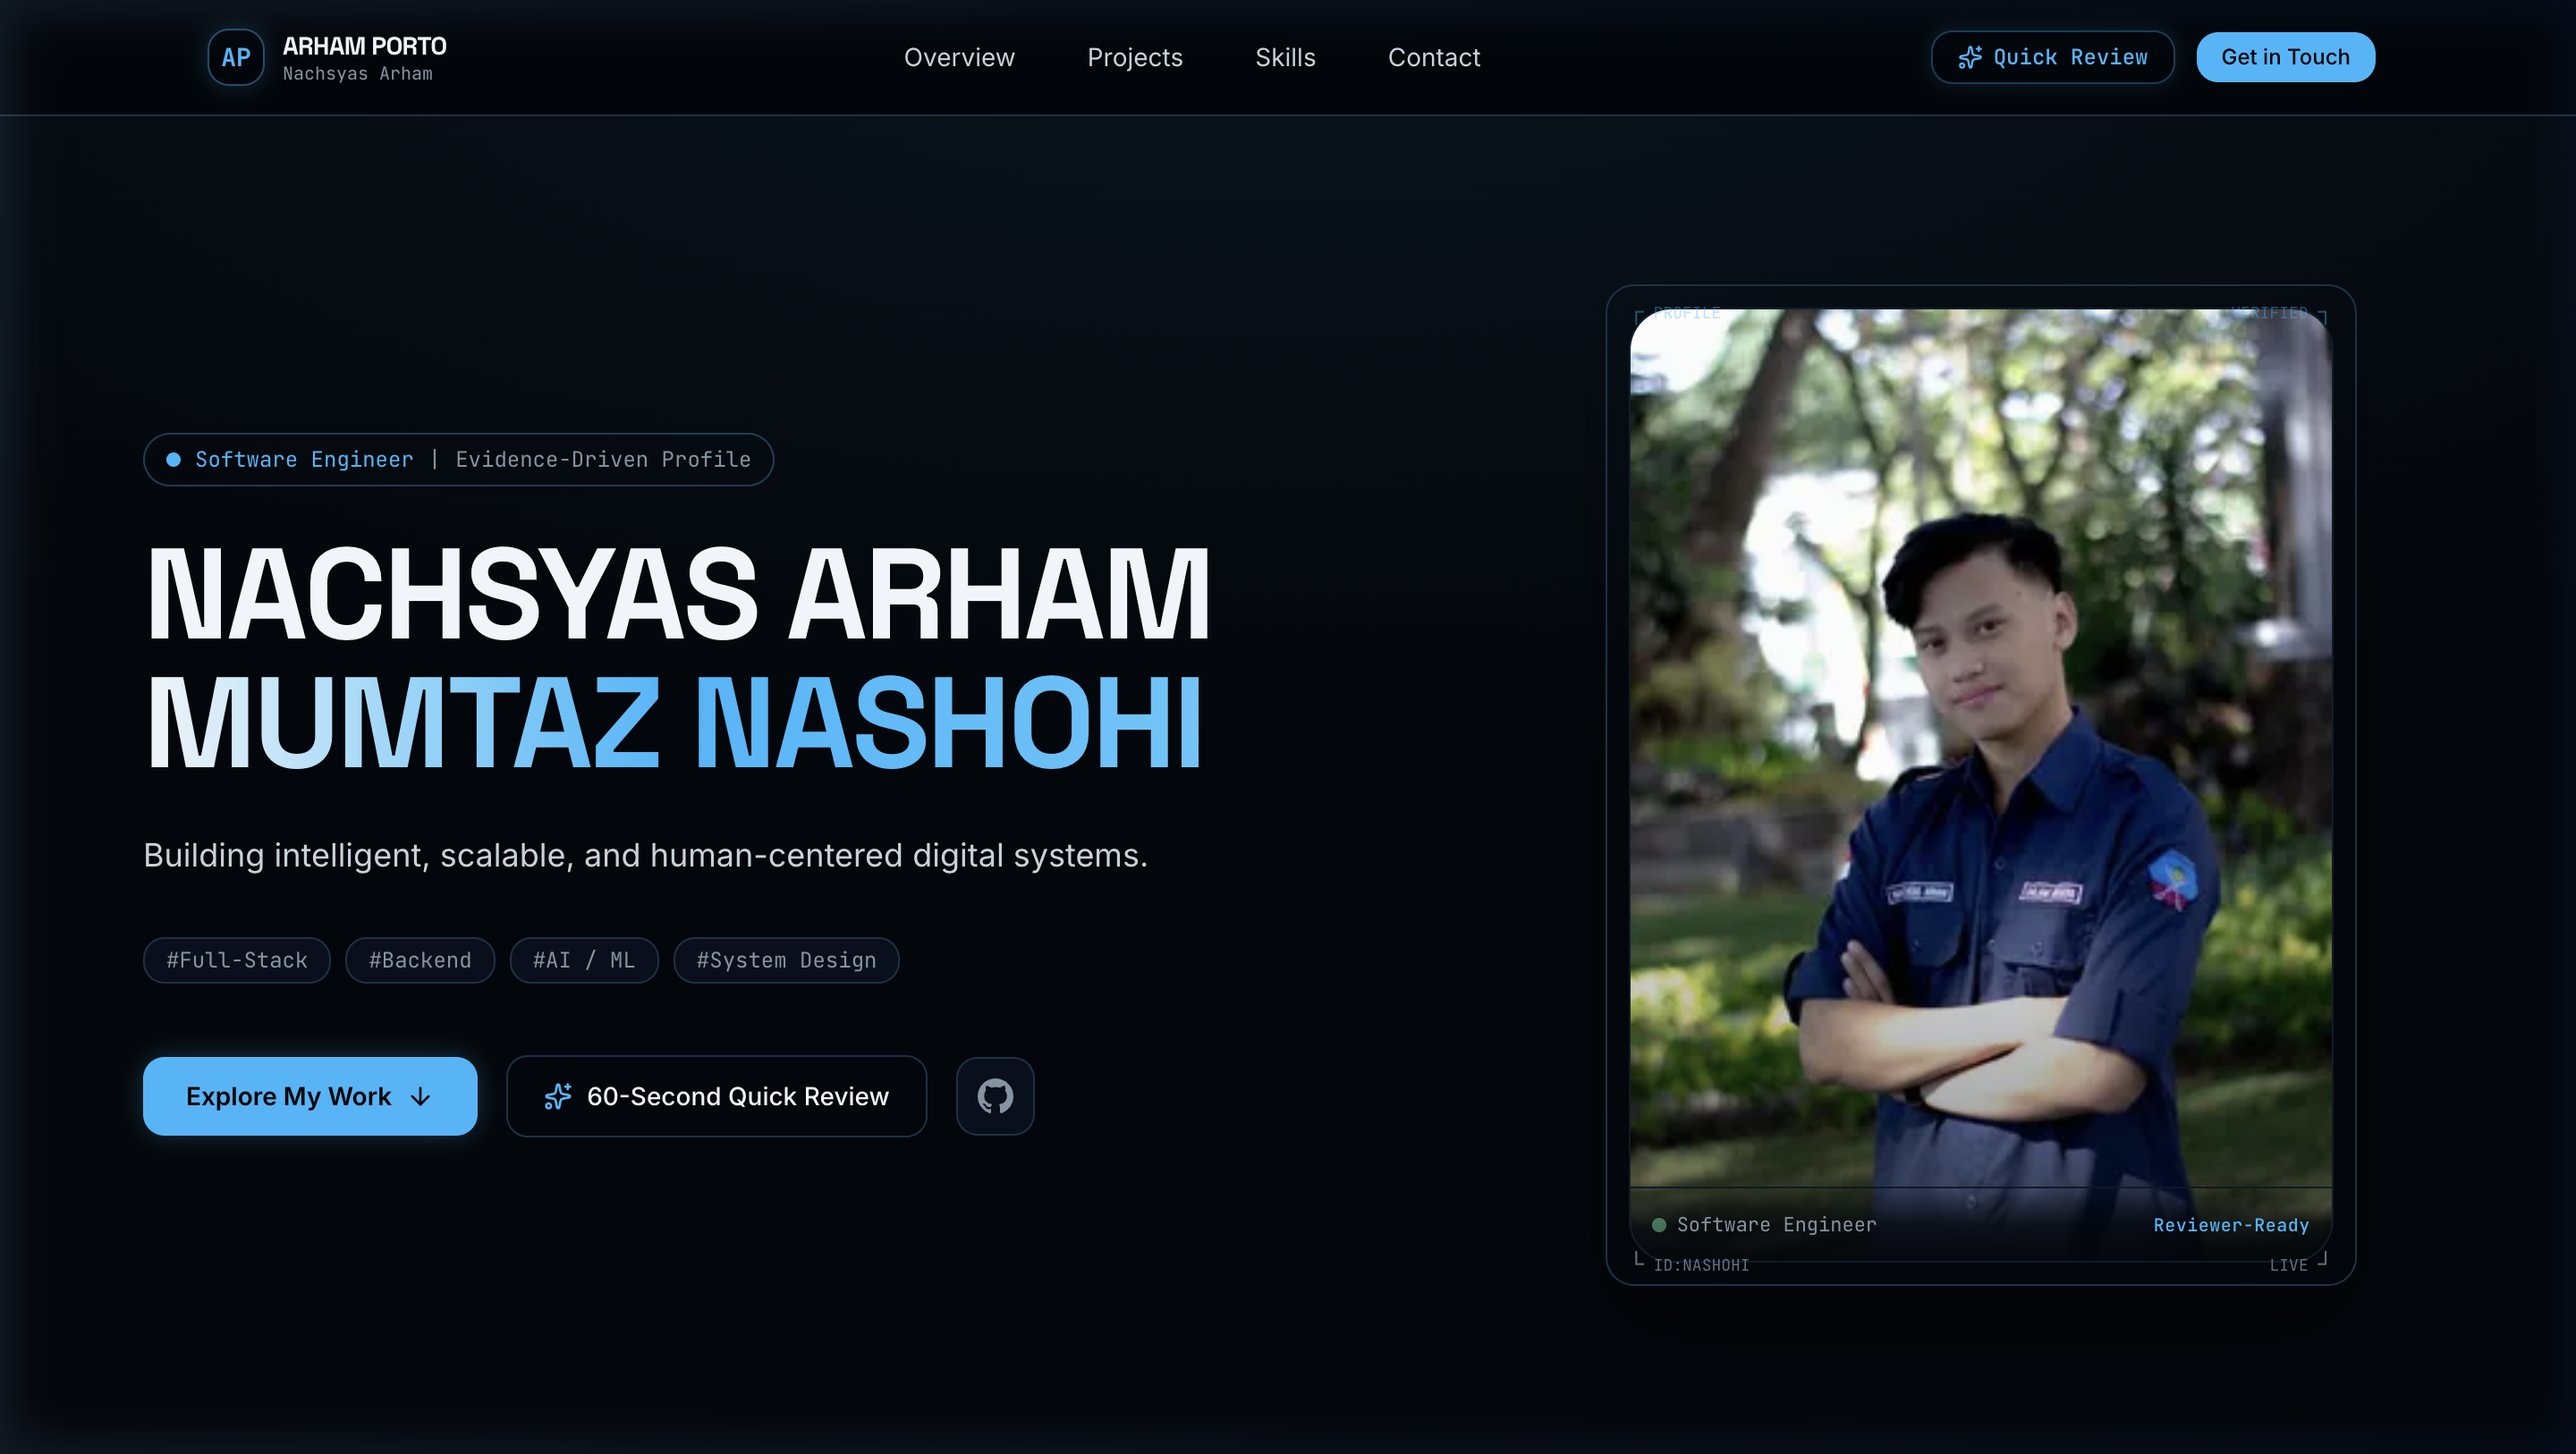
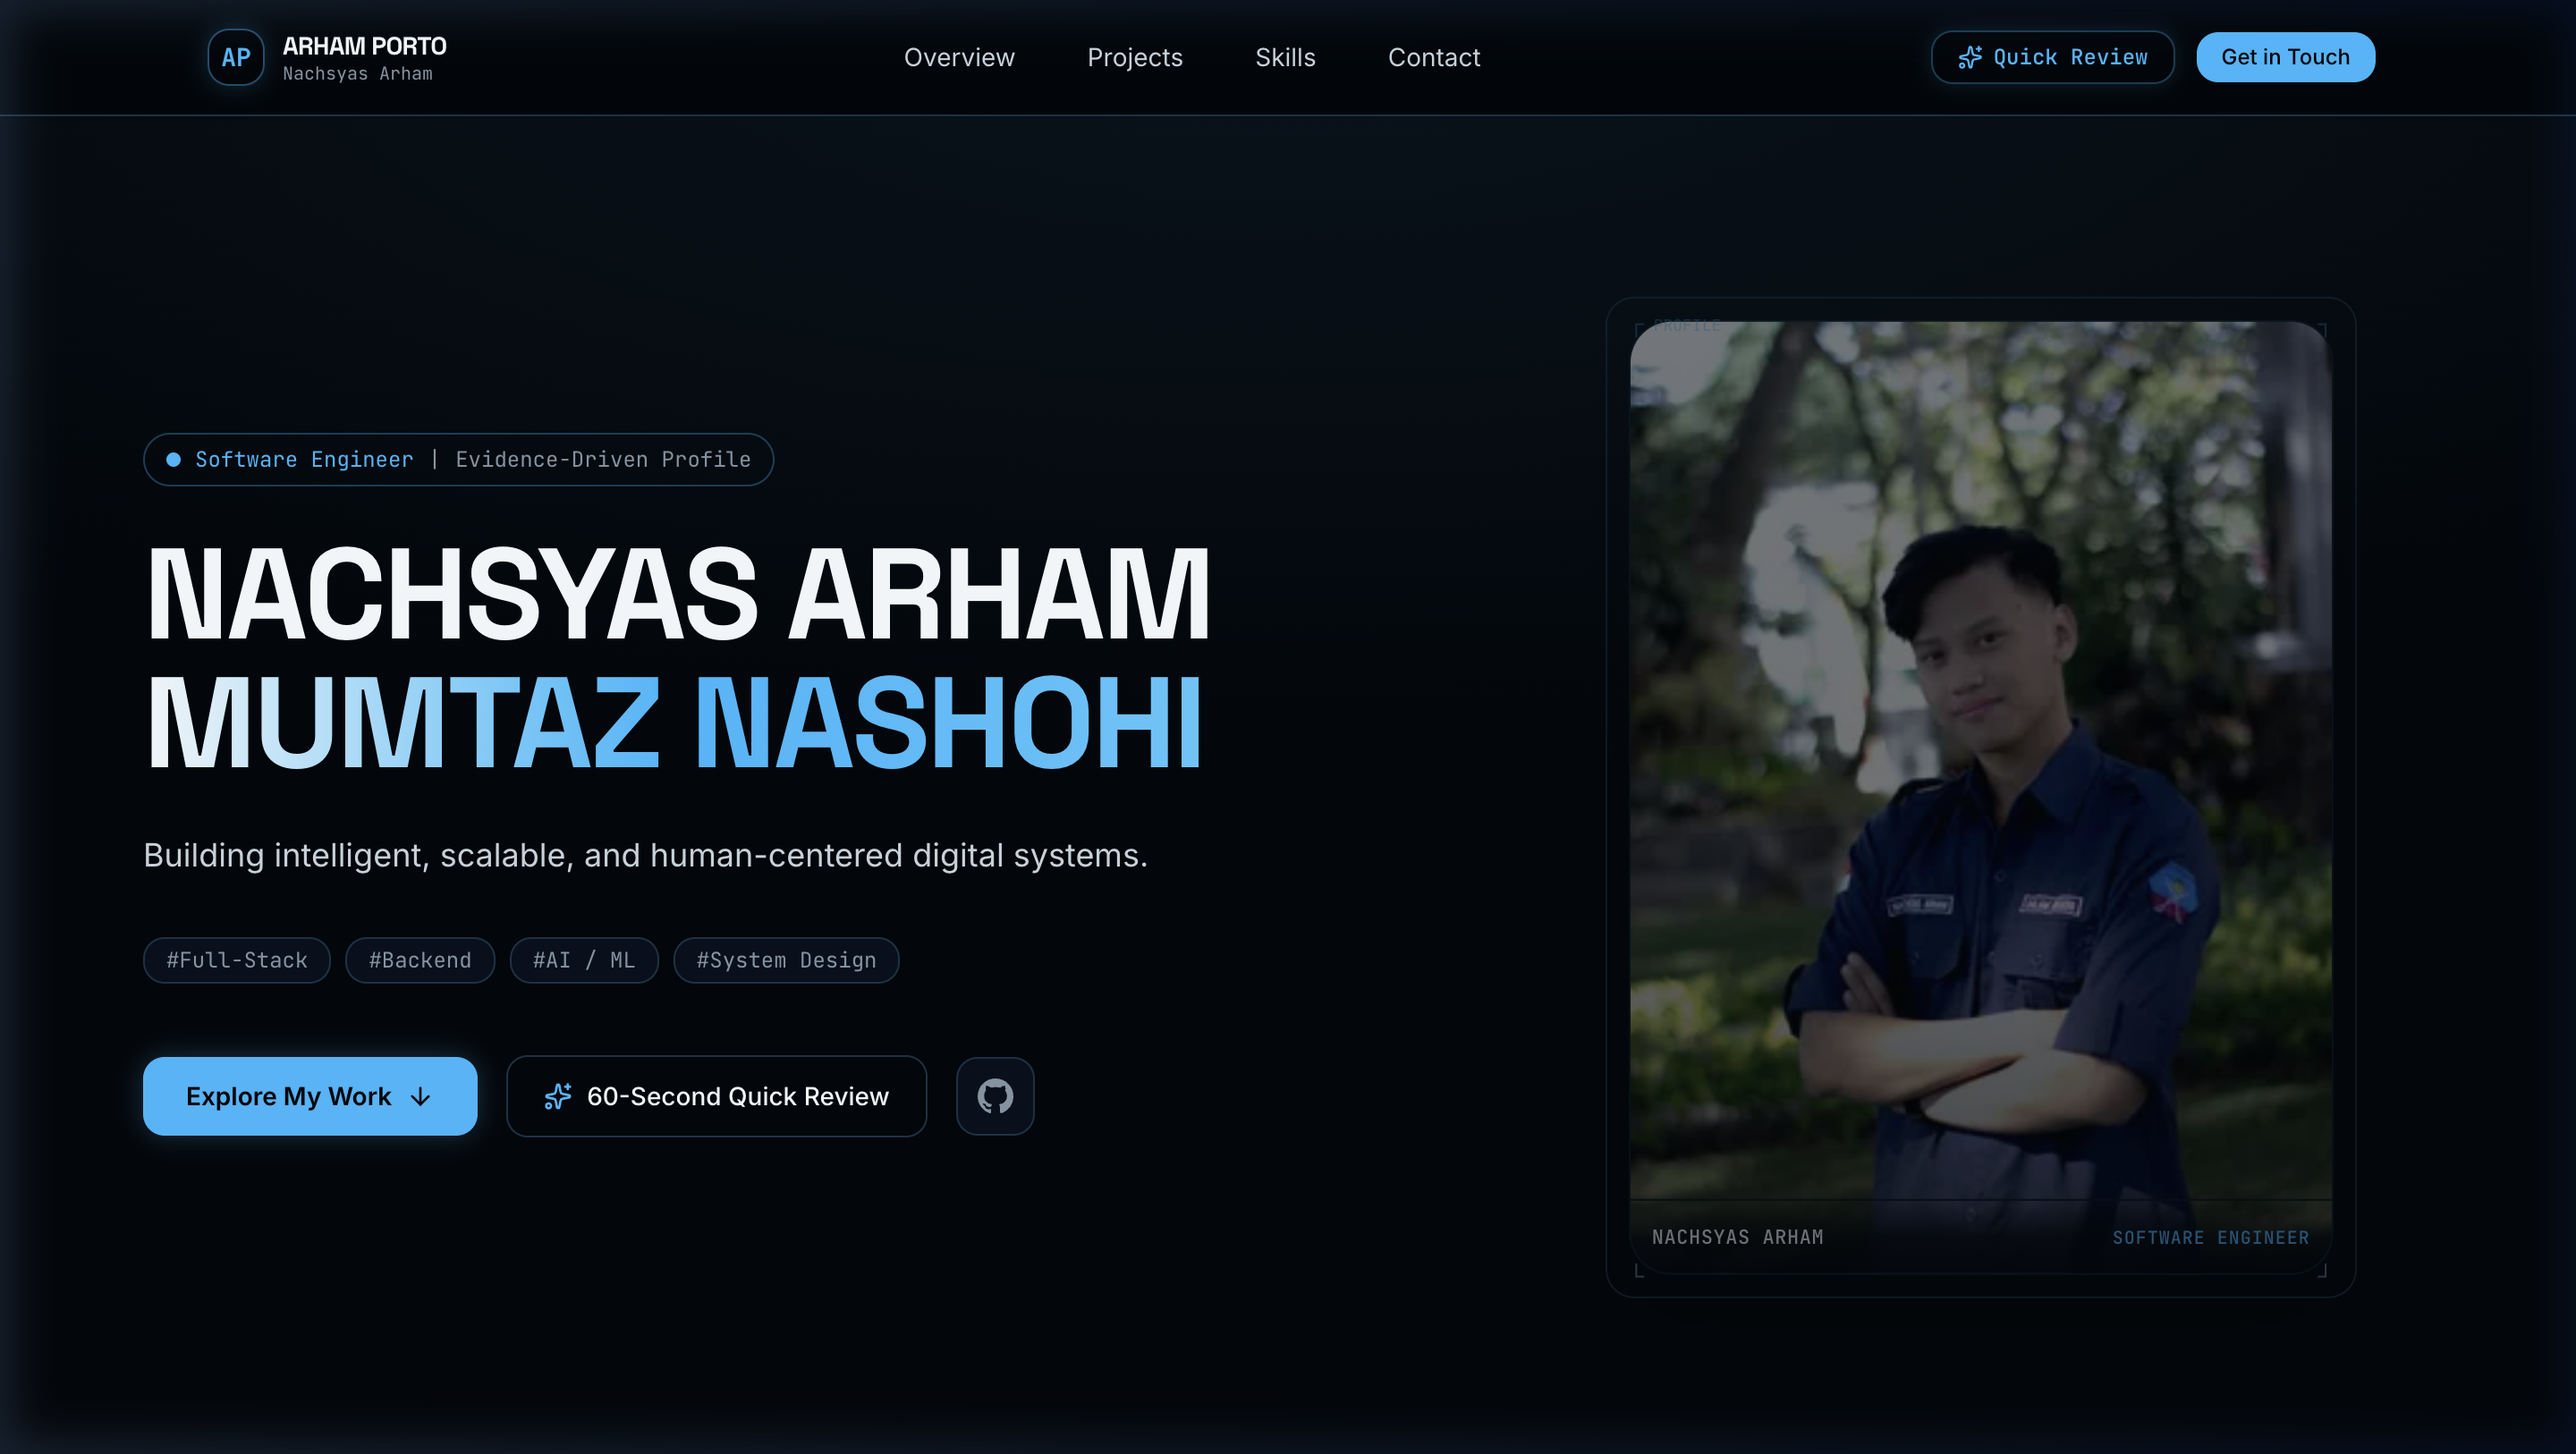
refine(hero): simplify portrait presentation

Changed region(s): [[0.625, 0.1845, 0.9062, 0.8918]]

diff --git a/apps/web/features/hero/HeroPortrait.tsx b/apps/web/features/hero/HeroPortrait.tsx
@@ -30,7 +30,7 @@ export default function HeroPortrait({
           ┌ PROFILE
         </span>
         <span className="absolute top-2 right-3 text-[9px] font-code text-primary/40 pointer-events-none z-20">
-          VERIFIED ┐
+          ┐
         </span>
 
         {/* Inner Photographic Frame */}
@@ -68,24 +68,23 @@ export default function HeroPortrait({
             </div>
           )}
 
-          {/* Minimalist Telemetry Overlay Strip */}
+          {/* Minimalist Profile Identity Overlay Strip */}
           <div className="absolute bottom-0 inset-x-0 p-3 bg-gradient-to-t from-canvas/95 via-canvas/80 to-transparent border-t border-border/40 backdrop-blur-xs flex items-center justify-between z-10">
-            <span className="flex items-center gap-1.5 text-[11px] font-code text-themeText-muted">
-              <span className="h-2 w-2 rounded-full bg-status-success animate-pulse" />
-              Software Engineer
+            <span className="text-[11px] font-code text-themeText-primary font-medium tracking-wide">
+              NACHSYAS ARHAM
             </span>
-            <span className="text-[10px] font-code text-primary font-medium tracking-wide">
-              Reviewer-Ready
+            <span className="text-[10px] font-code text-primary font-medium tracking-wider uppercase">
+              {role}
             </span>
           </div>
         </div>
 
         {/* Bottom Corner Markers */}
         <span className="absolute bottom-1 left-3 text-[9px] font-code text-themeText-mutedSoft pointer-events-none z-20">
-          └ ID:NASHOHI
+          └
         </span>
         <span className="absolute bottom-1 right-3 text-[9px] font-code text-themeText-mutedSoft pointer-events-none z-20">
-          LIVE ┘
+          ┘
         </span>
       </div>
     </motion.div>

diff --git a/apps/web/tests/hero-portrait.test.tsx b/apps/web/tests/hero-portrait.test.tsx
@@ -55,9 +55,10 @@ describe("Hero Portrait Feature", () => {
     const onOpenQuickReview = vi.fn();
     render(<HeroSection profile={mockProfile} onOpenQuickReview={onOpenQuickReview} />);
 
-    // Name typography
-    expect(screen.getByText("NACHSYAS ARHAM")).toBeDefined();
-    expect(screen.getByText("MUMTAZ NASHOHI")).toBeDefined();
+    // Name typography in H1 heading
+    const heading = screen.getByRole("heading", { level: 1 });
+    expect(heading.textContent).toContain("NACHSYAS ARHAM");
+    expect(heading.textContent).toContain("MUMTAZ NASHOHI");
 
     // Role and positioning
     expect(screen.getAllByText("Software Engineer").length).toBeGreaterThan(0);

diff --git a/docs/design/hero-portrait.md b/docs/design/hero-portrait.md
@@ -12,30 +12,46 @@ The Hero visual features an authentic portrait photo of **Nachsyas Arham Mumtaz 
 ---
 
 ## 2. Photo Source & Integrity
-- **Current Canonical Asset**: [`apps/web/public/images/profile/nachsyas-arham.jpg`](file:///Users/user/Documents/Arham%20Porto/apps/web/public/images/profile/nachsyas-arham.jpg)
-- **Source**: Extracted cleanly from the owner's approved curriculum vitae document.
-- **Replacement Tracker**: `TODO_USER_HIGH_RES_PROFILE_PHOTO` is maintained in the profile metadata for when a studio-grade high-resolution portrait is provided.
-- **Natural Color Grading**: The photo retains its natural skin tones and lighting. Cyan tinting over the face is strictly forbidden.
+- **Current Production Default**: [`apps/web/public/images/profile/nachsyas-arham.jpg`](file:///Users/user/Documents/Arham%20Porto/apps/web/public/images/profile/nachsyas-arham.jpg) (278x416 px).
+- **Secondary Asset**: [`apps/web/public/images/profile/nachsyas-arham-formal.jpg`](file:///Users/user/Documents/Arham%20Porto/apps/web/public/images/profile/nachsyas-arham-formal.jpg) (449x685 px).
+- **Metadata Sanitization**: All public profile JPEGs have been strictly stripped of EXIF, GPS coordinates, camera information, and embedded metadata prior to public deployment.
+- **Replacement Tracker**: `TODO_USER_HIGH_RES_PROFILE_PHOTO` remains active in the profile metadata for future studio-grade replacement.
+- **Natural Color Grading**: The photo retains its natural skin tones and lighting. Cyan tinting, face detection boxes, scan lines, and coordinates over the face are strictly forbidden.
 
 ---
 
-## 3. Privacy & CV Data Safeguards
+## 3. Authentic Asset Evaluation & Selection Rationale
+Two authentic portrait assets were extracted from the candidate's CV and evaluated:
+1. **`nachsyas-arham.jpg` (Selected Production Default)**:
+   - Natural outdoor environmental lighting, arms-crossed pose with dark navy uniform and physical name badge ("NACHSYAS ARHAM").
+   - Tone and palette harmonize seamlessly with the dark `#02060B` canvas and `#07111C` surface container.
+   - Poses an approachable, confident software engineer demeanor suitable for recruiters.
+   - Excellent framing on both desktop (3:4 card) and mobile (portrait crop).
+2. **`nachsyas-arham-formal.jpg` (Archived Candidate)**:
+   - Indonesian administrative identity photo ("Pas Foto") with solid bright saturated red background (`#EA0000`), white shirt, and black tie.
+   - Despite higher pixel dimensions (449x685), the severe red background clashes sharply with the site's dark navy/cyan technical design tokens, and the rigid ID framing is less recruiter-friendly.
+   - Selection rule honored: *"Do NOT choose based on resolution alone if composition is worse."*
+
+---
+
+## 4. Privacy & CV Data Safeguards
 - **Zero Document Exposure**: Only the cropped portrait itself is published.
 - **Strict Privacy Isolation**: Private personal details present in CV documents (home address, phone number, date of birth, identity numbers) must **NEVER** be published or exposed in the client bundle.
 
 ---
 
-## 4. Visual Styling & Frame Architecture
+## 5. Visual Styling & Frame Architecture
 - **Frame Aesthetic**: Dark navy / near-black container (`bg-gradient-to-b from-surfaceElevated/70 to-surface/90`, `border-border`).
-- **Restrained Accents**:
-  - Subtle corner coordinate brackets (`┌ PROFILE`, `VERIFIED ┐`, `└ ID:NASHOHI`, `LIVE ┘`).
-  - Minimal telemetry strip (`Software Engineer | Reviewer-Ready`).
-  - Subtle grounding gradient (`bg-gradient-to-t from-canvas/80 via-transparent to-transparent`) for seamless theme integration.
+- **Refined Non-HUD Accents**:
+  - Subtle corner coordinate lines (`┌ PROFILE`, `┐`, `└`, `┘`).
+  - Dignified profile credit strip (`NACHSYAS ARHAM` / `SOFTWARE ENGINEER`).
+  - Completely purged ambiguous HUD/surveillance labels (`VERIFIED`, `LIVE`, `ID:NASHOHI`, `Reviewer-Ready`) and pulsing biometric dots.
+  - Subtle grounding gradient (`bg-gradient-to-t from-canvas/80 via-transparent to-transparent`) for seamless integration.
 - **Forbidden Treatments**: No fake face detection boxes, no biometric labels, no fake radar sweeps, and no heavy neon glows.
 
 ---
 
-## 5. Responsive Cropping & Layout
+## 6. Responsive Cropping & Layout
 - **Desktop (1440px)**:
   - Left column: Executive typography (`NACHSYAS ARHAM MUMTAZ NASHOHI`), role badge, positioning statement, primary CTAs (`Explore My Work`, `60-Second Quick Review`), and GitHub link.
   - Right column: Portrait card (`max-w-[420px]`, `aspect-[3/4]`). Head to upper torso framing.
@@ -45,7 +61,7 @@ The Hero visual features an authentic portrait photo of **Nachsyas Arham Mumtaz 
 
 ---
 
-## 6. Accessibility & Motion
+## 7. Accessibility & Motion
 - **Accessible Identification**: Next.js `<Image />` component with explicit, semantic alt text:  
   `alt="Portrait of Nachsyas Arham Mumtaz Nashohi"`.
   `aria-hidden` is strictly forbidden on the primary portrait.
@@ -56,14 +72,14 @@ The Hero visual features an authentic portrait photo of **Nachsyas Arham Mumtaz 
 
 ---
 
-## 7. Performance & LCP Optimization
+## 8. Performance & LCP Optimization
 - **Next.js `<Image />`**: Configured with `priority` attribute to ensure optimal Largest Contentful Paint (LCP).
 - **Responsive Delivery**: Explicit `sizes="(max-width: 640px) 90vw, (max-width: 1024px) 45vw, 420px"`.
 - **Zero WebGL Overhead**: Removing Three.js returns the homepage First Load JS to baseline static weight (~159 kB).
 
 ---
 
-## 8. High-Resolution Replacement Process
+## 9. High-Resolution Replacement Process
 When a high-resolution portrait photograph is provided by the portfolio owner:
 1. Ensure the asset is cropped to a 3:4 or 4:5 portrait orientation (recommended resolution: at least 1200x1600 px).
 2. Save the optimized file as `apps/web/public/images/profile/nachsyas-arham.webp` (or `.jpg`).
